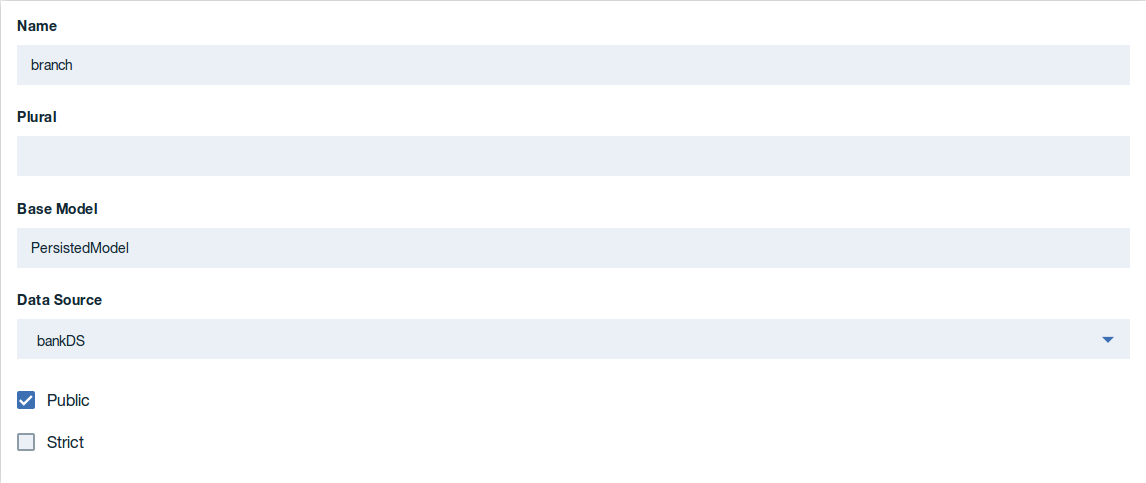
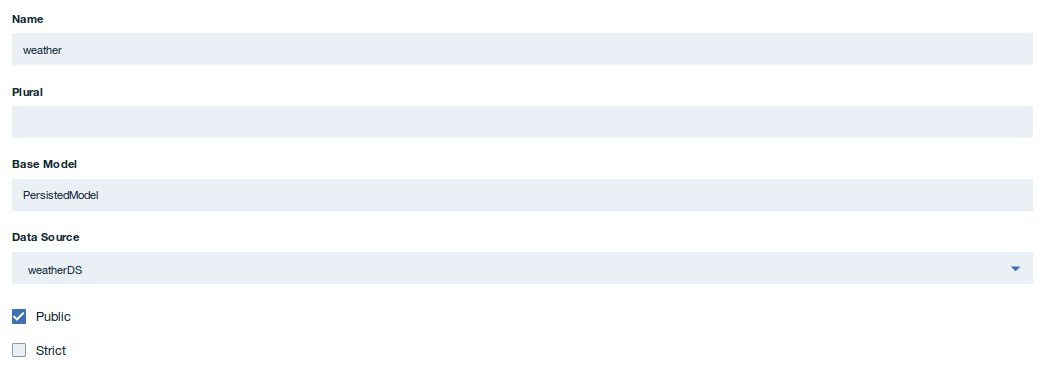
Updated model to reflect weather data instead of bank

diff --git a/toolkit/getting-started-creating-an-api-in-nodejs/README.md b/toolkit/getting-started-creating-an-api-in-nodejs/README.md
@@ -29,16 +29,16 @@ To create a LoopBack project using the APIC toolkit command line, complete the f
 	apic loopback
 	```
 	>![info]
-	>You will create a project called acme-bank
+	>You will create a project called weather-data
 2.  At the prompt, enter ```acme-bank``` as the project name. Then, press **Enter**.
 	```bash
-	? What's the name of your application? acme-bank
+	? What's the name of your application? weather-data
 	```
   	>![important]
   	>In general, a project name can contain any characters except blank space (" "), forward slash ("/"), ampersand ("&"), at ("@"), plus ("+"), percent ("%"), and colon (":") .
 3.  Enter the name of the directory in which to create the project. You can press **Enter** to use a directory with the same name as the project, or type a new name and press Enter.
 	```bash
-	? Enter name of the directory to contain the project: acme-bank
+	? Enter name of the directory to contain the project: weather-data
 	```
 4.  Select the version of LoopBack to use. Choose the current production version, 3.x.
 	```bash
@@ -69,7 +69,7 @@ To add a new model and data source to a LoopBack project using the API Designer,
 To add a new data source to a LoopBack project using the API Designer, complete the following steps:
 1. You must also create a LoopBack project (the "acme-bank" project) as described in ```Create a LoopBack project from the command line``` and make sure the current working directory is the project root directory:
 	```bash
-	cd acme-bank
+	cd weather-data
 	```
 2. From the command line, enter the following command:
 	```bash
@@ -84,7 +84,7 @@ To add a new data source to a LoopBack project using the API Designer, complete 
 	>You can login using your BlueMix account.
 3. Click the **Data Sources** icon ![](images/datasource-icon.png).
 4. Click **Add**. The New LoopBack Data Source window opens.
-5. Enter ```bankDS``` in the **Name** text field.
+5. Enter ```weatherDS``` in the **Name** text field.
 	>![info]
 	>You can use any alphanumeric characters, dashes, and underscores in a data source name.
 6. Click **New**.
@@ -99,25 +99,23 @@ To add a new data source to a LoopBack project using the API Designer, complete 
 To add a new model to a LoopBack project using the API Designer, complete the following steps:
 1. Click the **Models** icon ![](images/models-icon.png).
 2. Click **Add**. The New LoopBack Model window opens.
-3. Enter ```branch``` in the **Name** text field, then click **New**.
+3. Enter ```weather``` in the **Name** text field, then click **New**.
 4. In the **Data Source** field, select **bankDS**.
 	![](images/new-model-1.png)
 5. In the **Properties** section, click the **Add property** icon ![](images/add-icon.png).
-6. In the **Property Name** text field, enter ```type```.
-7. For **Type**, select **string**.
+6. In the **Property Name** text field, enter ```zipcode```.
+7. For **Type**, select **number**.
 8. Select **Required** to make the property required. This means that it must have a value when you add or update a model instance. For now, keep the default values for the other settings:
 	- **Is Array**: Whether the property is a JavaScript array with elements of the specified type.
 	- **ID**: Whether the property is a unique identifier.
 	- **Index**: Whether the property represents a column (field) that is a database index.
 	- **Description**: Text description of the property.
-9. Click the **Add property** icon ![](images/add-icon.png) again to add another property.
-10. In the **Property Name** text field, enter ```phone```.
-11. For **Type**, select **string**. Leave the other settings with their default values.
+9. Click the **Add property** icon ![](images/add-icon.png) again to add another property.  Reference the table below to complete the remaining properties:
 	![](images/new-model-property-1.png)
-12. Click the **Save** icon ![](images/save-icon.png) to save your changes.
-13. Click **All Models** to finish editing the model.
+10. Click the **Save** icon ![](images/save-icon.png) to save your changes.
+11. Click **All Models** to finish editing the model.
 
-This completes the adding of a new data source and model to the **acme-bank** LoopBack project
+This completes the adding of a new data source and model to the **weather-data** LoopBack project
 
 ---
 ### Test your LoopBack project.
@@ -152,11 +150,11 @@ To test your API endpoints by using the API Designer Explore tool, complete the 
 	>![](images/restart-server-1.png)
 	
 4. Click **Explore** icon ![](images/explore-icon.png). You will see the API Explore tool. The side bar shows all the REST operations for the LoopBack models in the API. Models that are based on PersistedModel by default have a [standard set of create, read, update, and delete operations](http://loopback.io/doc/en/lb2/PersistedModel-REST-API).
-5. Click the operation **branch.create** in the left pane to display the endpoint.
+5. Click the operation **weather.create** in the left pane to display the endpoint.
 ![](images/explore-test-1.png)
 The center pane displays summary information about the endpoint, including its parameters, security, model instance data, and response codes. The right pane provides template code to call the endpoint using the curl command, and languages such as Ruby, Python, Java, and Node.
 
-6. To test the REST endpoints in the API Explore tool, on the right pane click **Try it**, and then scroll down to **Parameters** and click **Generate** to generate some dummy data. By default, the generated data includes the ```type```, ```phone```, and ```id``` properties.  The ```id``` property is created by LoopBack for a given model and the value is automatically generated.  Remove the ```id``` property from the sample data and then click **Call operation**.
+6. To test the REST endpoints in the API Explore tool, on the right pane click **Try it**, and then scroll down to **Parameters** and click **Generate** to generate some dummy data. By default, the generated data includes the ```zip_code```, ```current_temperature```, ```current_humidity```, ```tonight_temperature_low```, ```tonight_temperature_high```, ```tonight_humidity_low```, ```tonight_humidity_high``` and ```id``` properties.  The ```id``` property is created by LoopBack for a given model and the value is automatically generated.  Remove the ```id``` property from the sample data, update the generated data as required and then click **Call operation**.
 ![](images/explore-test-2.png)
 >![troubleshooting]
 >If you see an error message due to an untrusted certificate for localhost, click the link provided in the error message in API Explore to accept the certificate, then proceed to call the operations in your web browser. The exact procedure depends on the web browser you are using.  If you load the REST endpoints directly in your browser, you will see the message: {"name":"PreFlowError","message":"unable to process the request"}. You must use API Explore to test REST endpoints in your browser because it includes the requisite headers and other request parameters.
@@ -169,7 +167,7 @@ The center pane displays summary information about the endpoint, including its p
 7. Edit the values in the JSON shown in the **data** section. Try changing the generated dummy data, then click **Call operation** again. You should see the request and response parameters, along with the JSON instance data that you entered.
 ![](images/explore-test-4.png)
 
-8. To confirm that the operation added a model instance, click **branch.find** then click **Call operation** to display all branch instances.  For example (with three model instances):
+8. To confirm that the operation added a model instance, click **weather.find** then click **Call operation** to display all weather instances.  For example (with two model instances):
 
 	![](images/explore-test-5.png)
 ---
